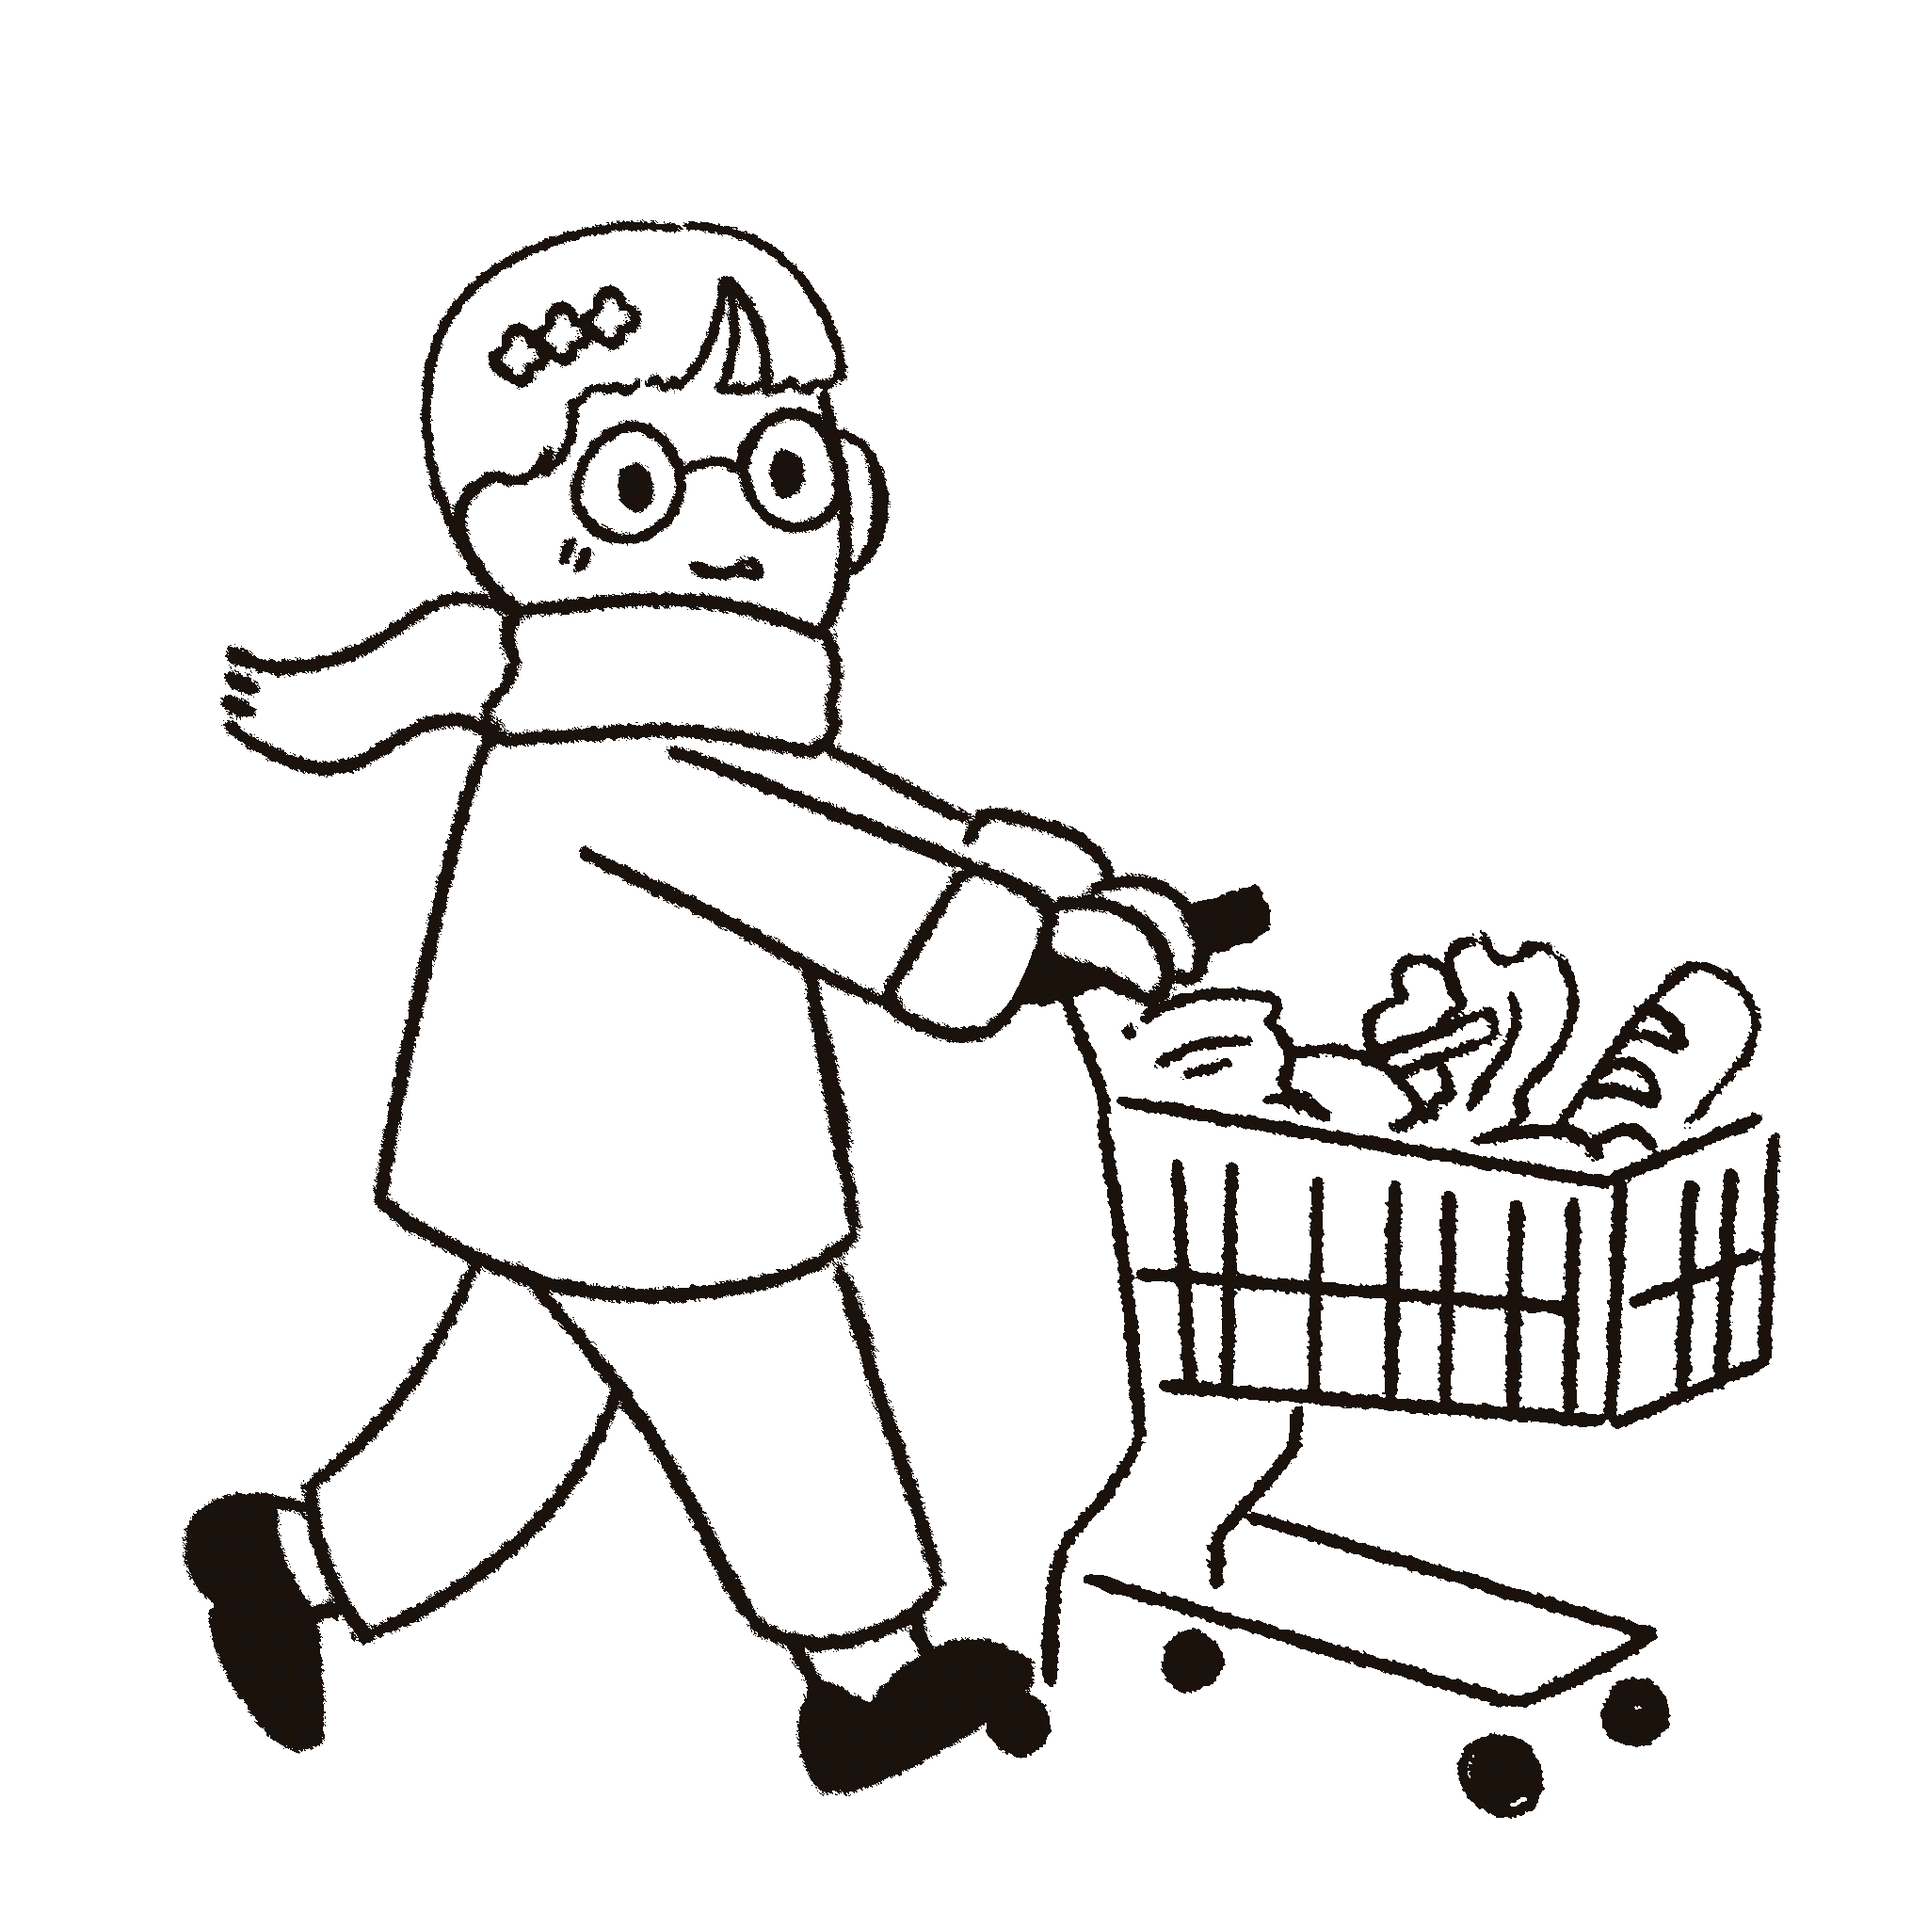
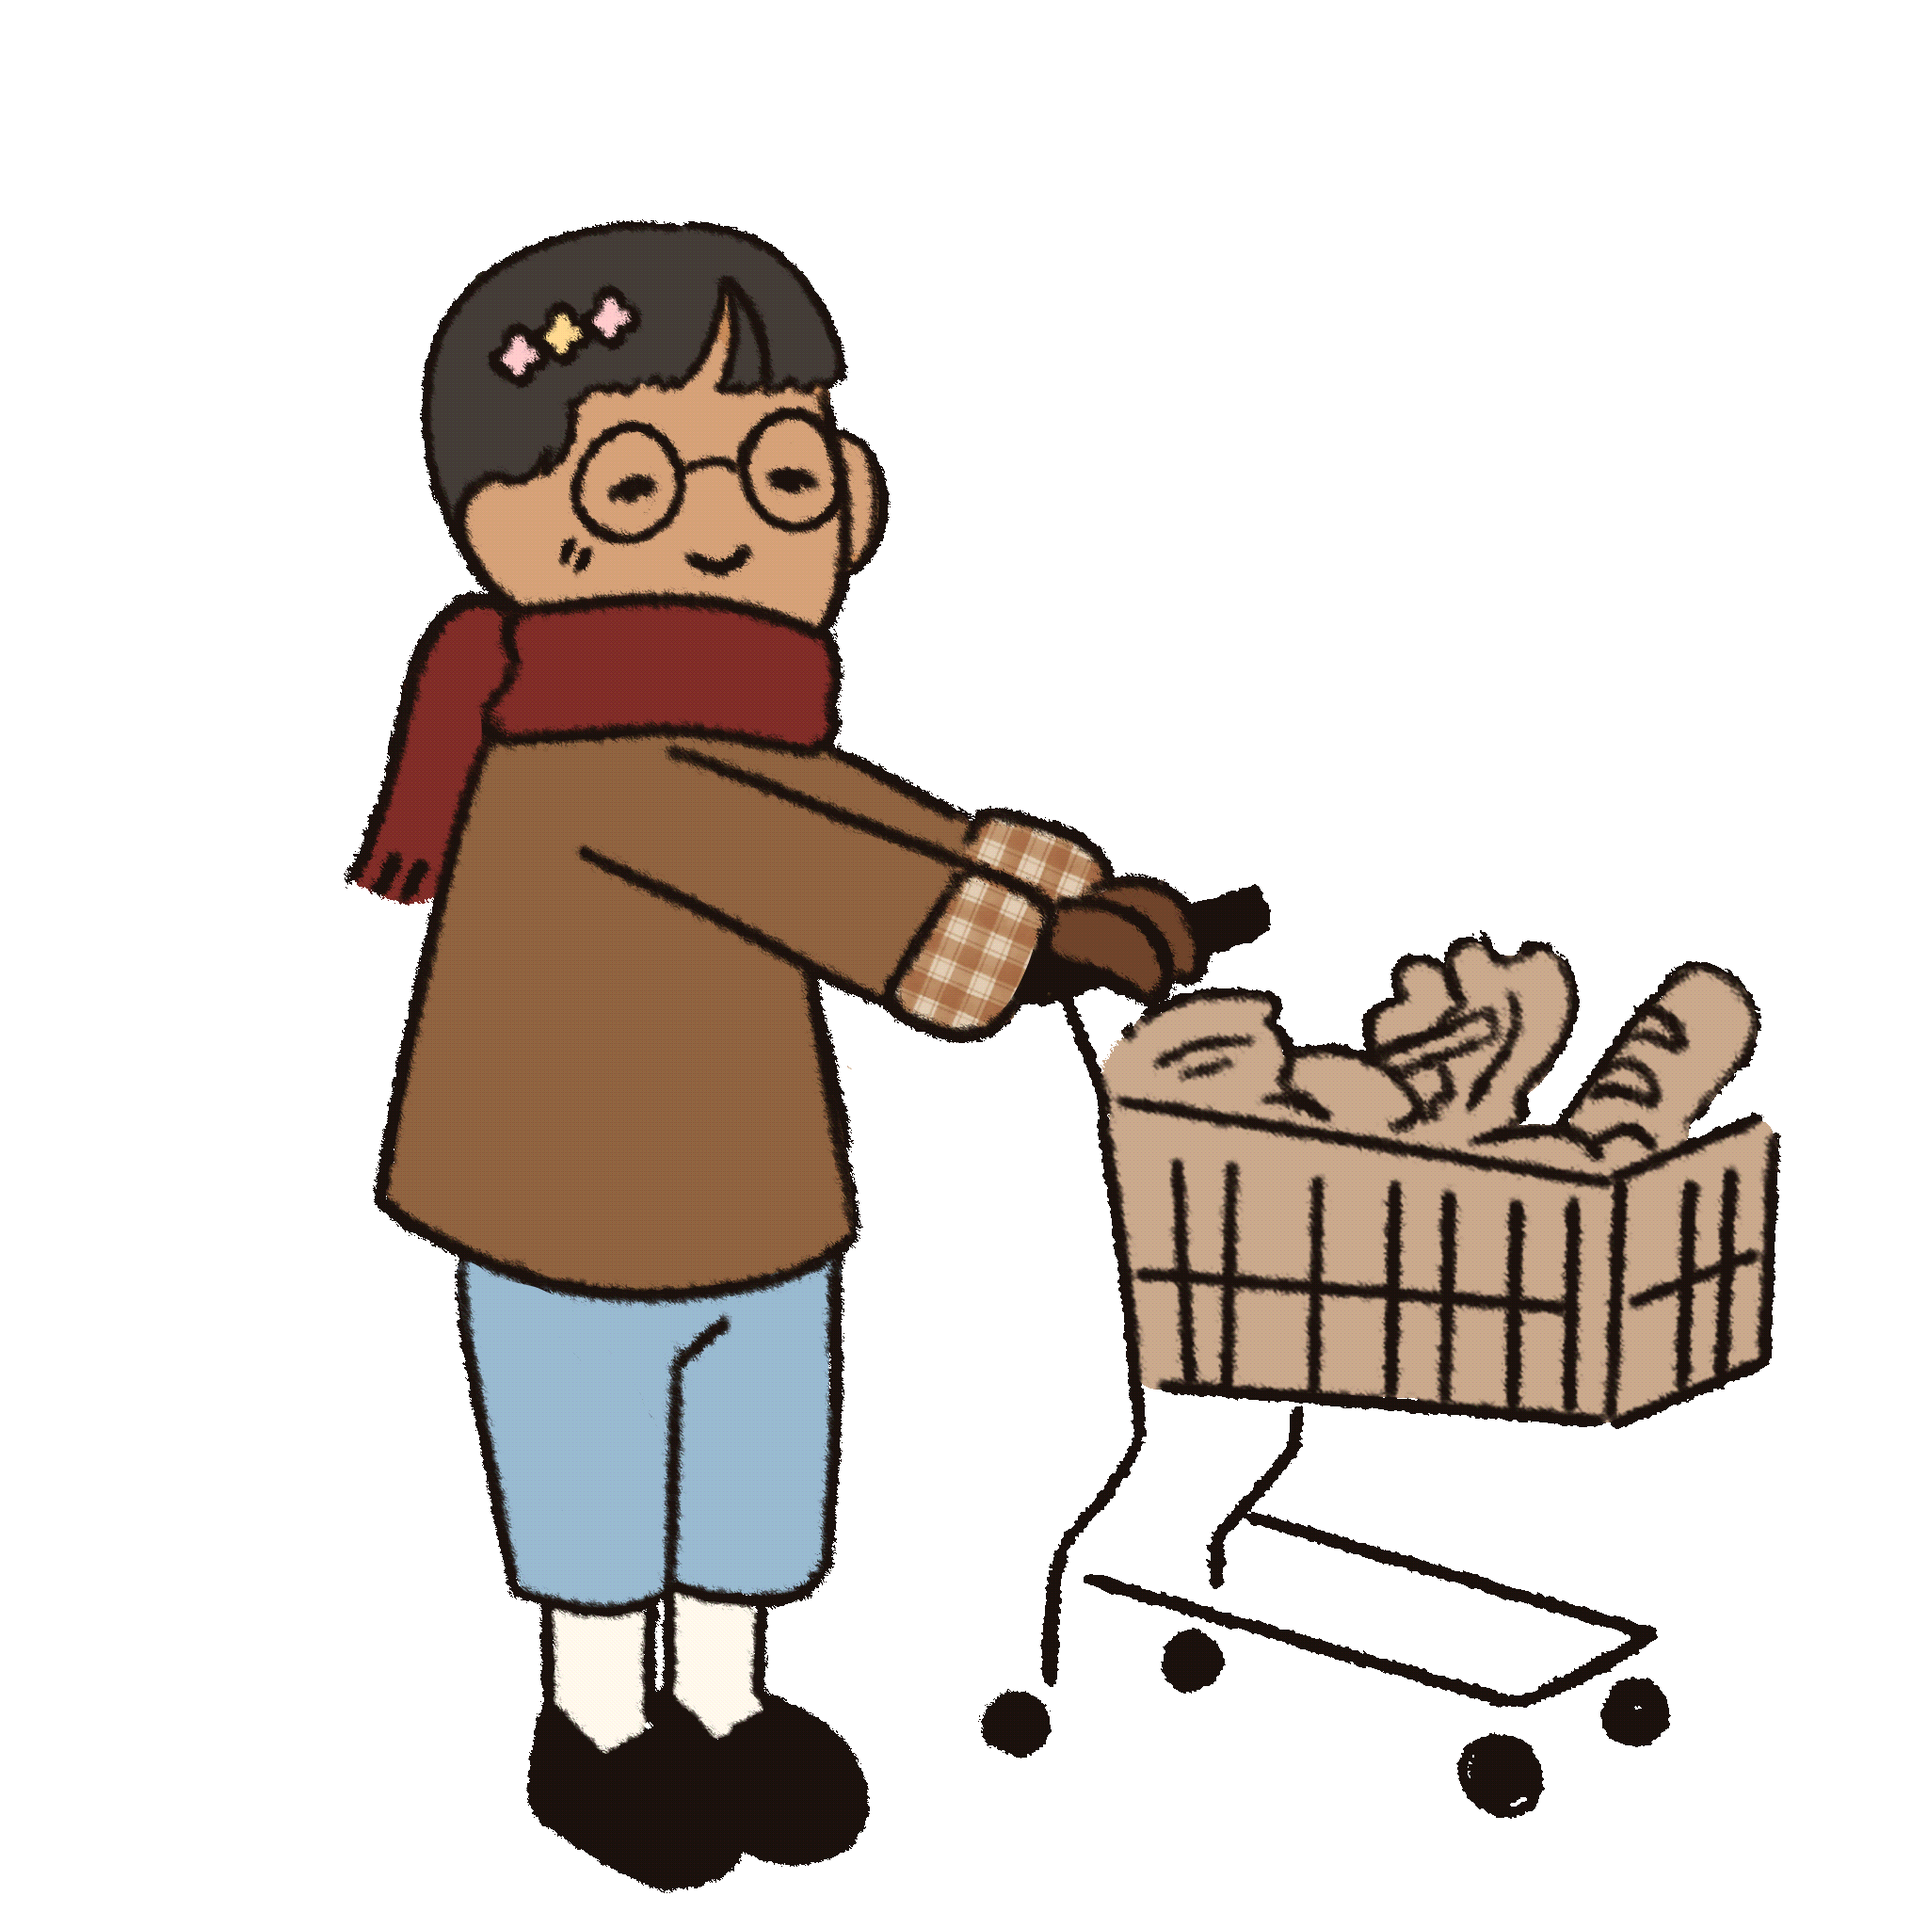
Coloured walk cycle and idle pose for the character
The walk sprite now holds the 8 coloured walk frames plus the idle
pose; the character idles when scrolling stops and starts idle.

Changed region(s): [[0.0938, 0.0938, 0.9375, 1.0]]

diff --git a/src/styles/store.css b/src/styles/store.css
@@ -89,8 +89,9 @@ html[data-mode="express"] .aisle-bar { display: none; }
 /* ---------- walker (sprite: 8 frames side by side) ---------- */
 .walker {
   position: absolute;
-  aspect-ratio: 582 / 600;
-  background: var(--sprite) 0 0 / 800% 100% no-repeat;
+  aspect-ratio: 557 / 600;
+  /* 9 frames side by side: 8 walk frames, then the idle pose */
+  background: var(--sprite) 0 0 / 900% 100% no-repeat;
   transform-origin: 30% 100%;
 }
 .walker.is-back { transform: scaleX(-1); }
@@ -146,7 +147,7 @@ html[data-mode="express"] .aisle-bar { display: none; }
 .sf__open { font: 400 28px var(--font-display); fill: var(--paper); stroke: none; }
 .sf__chalk { font: 600 21px var(--font-body); fill: var(--paper); stroke: none; }
 .sf__chalk--small { font-size: 15px; letter-spacing: .08em; text-transform: uppercase; fill: var(--sun); }
-.sf .walker { height: 44%; left: -24%; bottom: 7.6%; }
+.sf .walker { height: 44%; left: -24%; bottom: 5.4%; } /* the sprite has room under the walking feet for the idle pose */
 .sf__veil { position: absolute; inset: 0; background: var(--interior); opacity: 0; visibility: hidden; pointer-events: none; }
 .sf__hint {
   position: absolute; left: 50%; top: calc(var(--nav-h) + 12px); translate: -50% 0; margin: 0;
@@ -297,7 +298,7 @@ html[data-mode="express"] .aisle-bar { display: none; }
 }
 .basket-stack::before { content: ""; position: absolute; left: 18%; right: 18%; top: -34px; height: 40px; border: 4px solid var(--linework); border-bottom: 0; border-radius: 40px 40px 0 0; }
 
-.walker--aisle { height: min(44vh, 400px); left: 3vw; bottom: calc(17% - 6px); z-index: 2; }
+.walker--aisle { height: min(44vh, 400px); left: 3vw; bottom: calc(17% - 6px - min(44vh, 400px) * 0.049); z-index: 2; }
 
 /* ---------- checkout ---------- */
 .checkout {

diff --git a/src/scripts/store.ts b/src/scripts/store.ts
@@ -11,15 +11,27 @@ const FRAMES = 8;              // frames in walk-sprite.webp
 const PX_PER_FRAME = 70;       // horizontal scroll distance per walk frame in the aisles
 const STOREFRONT_LENGTH = 2.6; // storefront scroll length, in screen heights
 const BOIL_MS = 140;           // how often hand-drawn lines wobble
+const IDLE_AFTER_MS = 220;     // stop scrolling this long and the character switches to the idle pose
 // --------------------------------------------------------------------------
 
 const root = document.documentElement;
 const reduceMotion = window.matchMedia('(prefers-reduced-motion: reduce)');
 
+// The sprite holds the 8 walk frames and then the idle pose (frame 8).
+const IDLE_FRAME = FRAMES;
+const placeFrame = (el: HTMLElement, f: number) => { el.style.backgroundPositionX = `${(f * 100) / FRAMES}%`; };
+
+// Walking shows a frame for the scroll position; when scrolling stops, the character idles.
+const idleTimers = new WeakMap<HTMLElement, number>();
 const setFrame = (el: HTMLElement, i: number) => {
-  const f = ((i % FRAMES) + FRAMES) % FRAMES;
-  el.style.backgroundPositionX = `${(f * 100) / (FRAMES - 1)}%`;
+  placeFrame(el, ((i % FRAMES) + FRAMES) % FRAMES);
+  window.clearTimeout(idleTimers.get(el));
+  idleTimers.set(el, window.setTimeout(() => placeFrame(el, IDLE_FRAME), IDLE_AFTER_MS));
 };
+const setIdle = (el: HTMLElement | null) => el && placeFrame(el, IDLE_FRAME);
+// Start idle (and stay idle for reduced motion, where nothing walks).
+setIdle(document.getElementById('sf-walker'));
+setIdle(document.getElementById('aisle-walker'));
 
 // ---- Boiling lines: re-seed the noise filter so drawings feel hand-animated
 let boilTimer: number | undefined;
